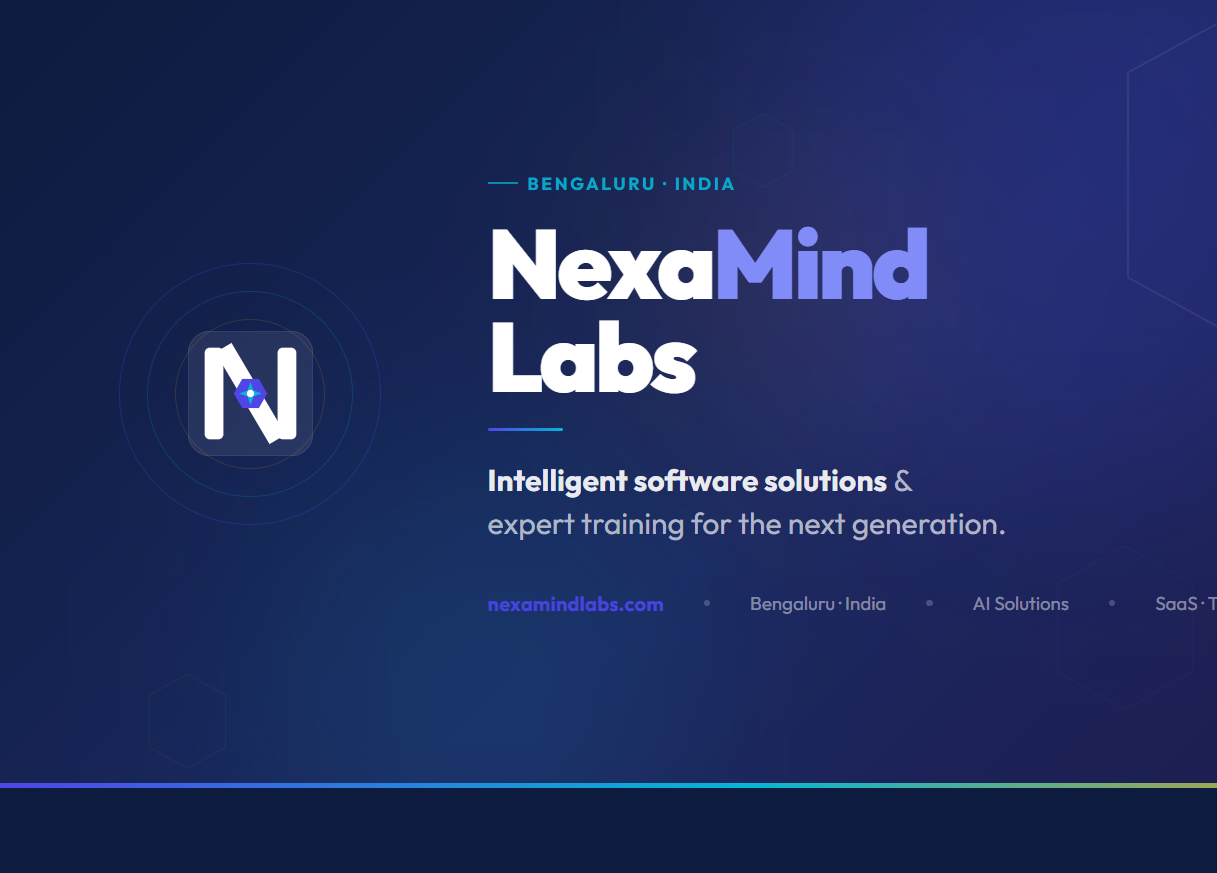
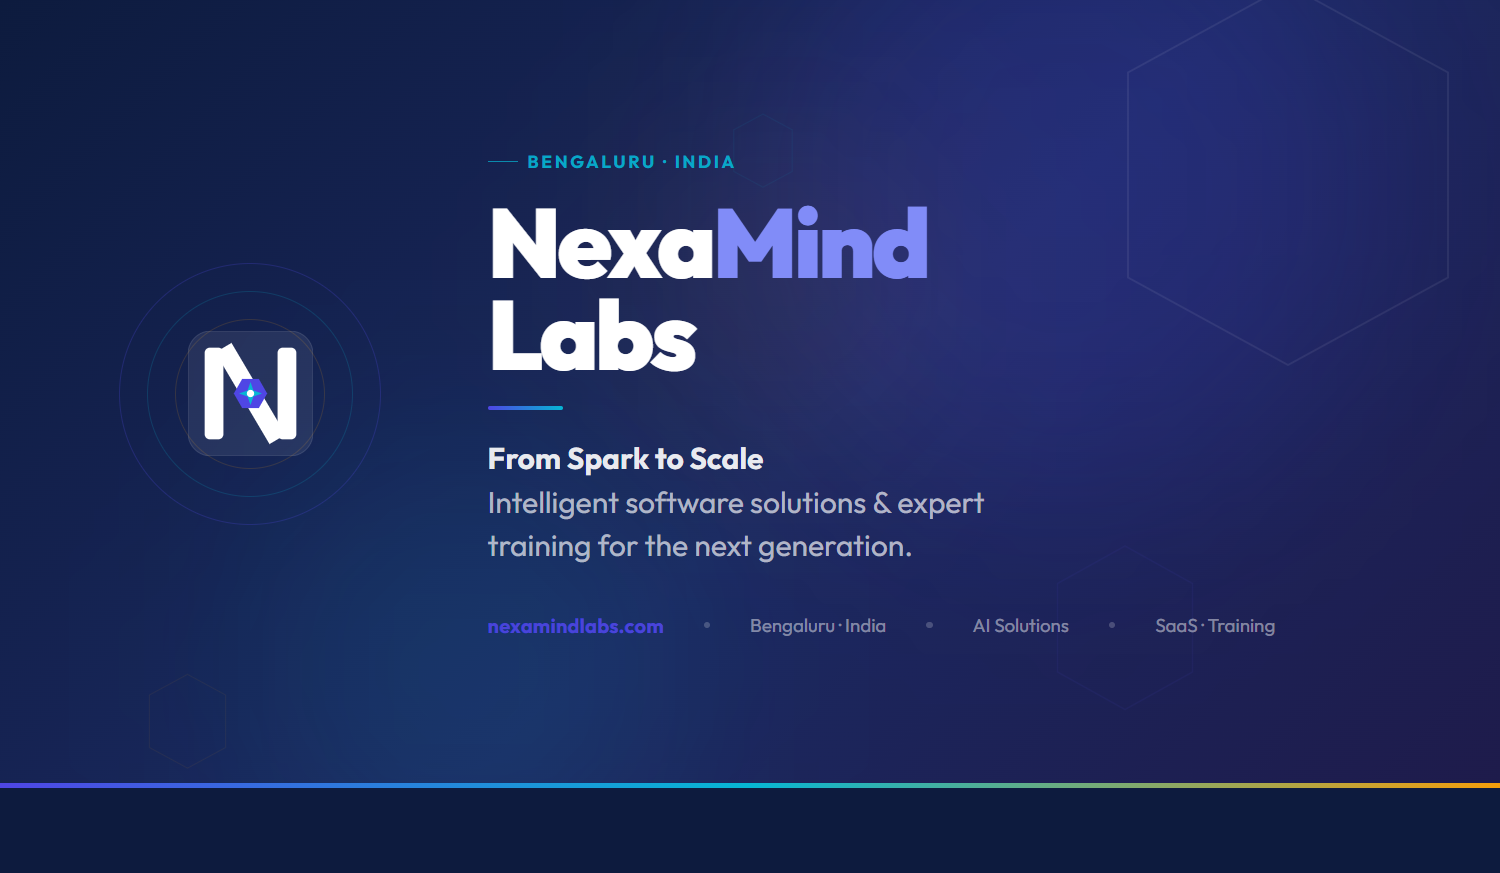
Updated the tagline

diff --git a/post.html b/post.html
@@ -61,6 +61,7 @@ nav{background:var(--dark);padding:1rem 2rem;display:flex;align-items:center;jus
 footer{background:var(--dark);padding:2rem;text-align:center}
 footer p{font-size:0.8rem;color:rgba(255,255,255,0.3)}
 footer a{color:var(--indigo-light);text-decoration:none;margin-left:1rem}
+.post-hero-banner{width:100%;max-height:420px;object-fit:cover;display:block;border-radius:0 0 20px 20px}
 .loading{text-align:center;padding:4rem;color:var(--muted)}
 @media(max-width:600px){.post-body-wrap{padding:2rem 1.25rem 4rem}.post-hero{padding:2.5rem 1.25rem 2rem}}
 </style>
@@ -110,6 +111,7 @@ footer a{color:var(--indigo-light);text-decoration:none;margin-left:1rem}
 </div>
 
 <footer>
+  <p style="font-family:sans-serif;font-size:0.78rem;font-weight:600;color:rgba(129,140,248,0.8);margin-bottom:0.3rem">From Spark to Scale</p>
   <p>© 2026 NexaMind Labs <a href="/">Home</a> <a href="/blog.html">Blog</a></p>
 </footer>
 
@@ -158,7 +160,11 @@ async function loadPost() {
     document.title = `${meta.title} — NexaMind Labs`;
 
     // Hero
+    const heroBanner = meta.image
+      ? `<img src="${meta.image}" alt="${meta.title}" class="post-hero-banner">`
+      : '';
     document.getElementById('post-hero').innerHTML = `
+      ${heroBanner}
       <div class="post-hero-inner">
         <a href="/blog.html" class="back-link">← All posts</a>
         <div class="post-tag">${meta.category || 'General'}</div>

diff --git a/index.html b/index.html
@@ -399,7 +399,7 @@ footer{background:#070e24;padding:3.5rem 2rem 2rem}
     <div class="hero-left">
       <div class="hero-badge">// Based in Bengaluru · India</div>
       <h1>Build <em>intelligent</em><br>software. Train<br>sharp minds.</h1>
-      <div class="hero-sub-tag">Technology studio + Training lab</div>
+      <div class="hero-sub-tag">From Spark to Scale</div>
       <p class="hero-desc">NexaMind Labs delivers custom AI-powered applications, SaaS products, and real-world training — for IT professionals levelling up, and students building their future.</p>
       <div class="hero-cta">
         <a href="#services" class="btn btn-glow">Explore services</a>
@@ -808,6 +808,7 @@ footer{background:#070e24;padding:3.5rem 2rem 2rem}
           <svg width="28" height="28"><use href="#nml-mark"/></svg>
           <span>NexaMind</span> <span class="ft-logo-labs">Labs</span>
         </div>
+        <p class="ft-tagline" style="font-family:'Outfit',sans-serif;font-size:0.8rem;font-weight:600;color:var(--indigo-light);letter-spacing:0.04em;margin-bottom:0.4rem">From Spark to Scale</p>
         <p class="ft-desc">A Bengaluru-based technology studio building AI-powered software and training the next generation of developers and students.</p>
       </div>
       <div class="ft-col">

diff --git a/about.html b/about.html
@@ -178,6 +178,7 @@ footer{background:#070e24;padding:3rem 2rem 2rem;text-align:center}
     </div>
     <div class="hero-text">
       <div class="hero-tag">// Our story</div>
+      <div style="font-family:'Outfit',sans-serif;font-size:0.9rem;font-weight:600;color:var(--amber);letter-spacing:0.04em;margin-bottom:0.5rem">From Spark to Scale</div>
       <h1>18 years of learning.<br>Now <em>giving it back.</em></h1>
       <p class="hero-desc">NexaMind Labs was built at the intersection of two convictions — that AI changes what software can do, and that the best thing an experienced practitioner can do is make sure the next generation doesn't have to figure it all out alone.</p>
       <div class="hero-stats">
@@ -349,6 +350,7 @@ footer{background:#070e24;padding:3rem 2rem 2rem;text-align:center}
     <a href="/blog.html">Blog</a>
     <a href="mailto:info@nexamindlabs.com">info@nexamindlabs.com</a>
   </div>
+  <p style="font-family:'Outfit',sans-serif;font-size:0.78rem;font-weight:600;color:var(--indigo-light);margin-bottom:0.4rem">From Spark to Scale</p>
   <p class="ft-copy">© 2026 NexaMind Labs. All rights reserved.</p>
 </footer>
 

diff --git a/training.html b/training.html
@@ -188,6 +188,7 @@ footer{background:#070e24;padding:3rem 2rem 2rem;text-align:center}
 <!-- HERO -->
 <section class="hero">
   <div class="hero-tag">// Training programmes</div>
+  <div style="font-family:'Outfit',sans-serif;font-size:0.9rem;font-weight:600;color:var(--amber);letter-spacing:0.04em;margin-bottom:0.75rem">From Spark to Scale</div>
   <h1>Learn from people who<br><em>build for a living</em></h1>
   <p>Two tracks built for two different journeys — IT professionals who want to level up, and school students who want to get ahead.</p>
   <div class="hero-tracks">

diff --git a/blog.html b/blog.html
@@ -81,6 +81,7 @@ footer a{color:var(--indigo-light);text-decoration:none;margin-left:1rem}
 <div class="blog-hero">
   <h1>From the blog</h1>
   <p>Insights on AI, software development, and education from the NexaMind Labs team.</p>
+<p style="font-family:'Outfit',sans-serif;font-size:0.82rem;font-weight:600;color:rgba(129,140,248,0.9);letter-spacing:0.04em;margin-top:0.5rem">From Spark to Scale</p>
 </div>
 
 <div class="filter-bar" id="filter-bar">
